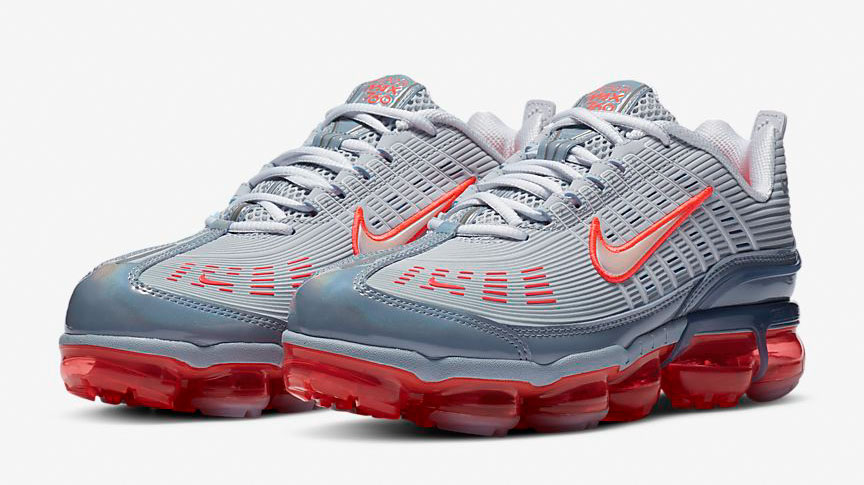
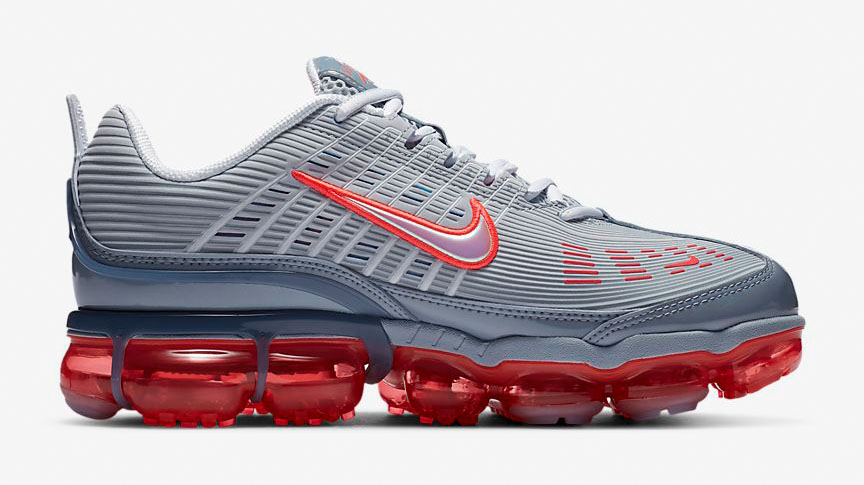
Add extra data

diff --git a/data/shoes.js b/data/shoes.js
@@ -3,10 +3,49 @@ const generateId = require("../util/generateId");
 const products = [
   {
     id: generateId(),
+    name: "Air Edge 270",
+    price: 89.99,
+    description:
+      "The Nike Air Edge 270 takes the look of retro basketball and puts it through a modern lens. Featuring Nike's biggest heel Air unit yet, it delivers total comfort and versatile style.",
+    images: [
+      {
+        id: "0",
+        source: "/shoes/air-edge-270-mens-shoe-fRCSW5__1.jpg",
+        color: "#4781C3",
+      },
+      {
+        id: "1",
+        source: "/shoes/air-edge-270-mens-shoe-fRCSW5__2.jpg",
+        color: "#4781C3",
+      },
+      {
+        id: "2",
+        source: "",
+        color: "#4781C3",
+      },
+      {
+        id: "3",
+        source: "",
+        color: "#4781C3",
+      },
+      {
+        id: "4",
+        source: "/shoes/air-edge-270-mens-shoe-fRCSW5__5.jpg",
+        color: "#4781C3",
+      },
+      {
+        id: "5",
+        source: "/shoes/air-edge-270-mens-shoe-fRCSW5__6.jpg",
+        color: "#4781C3",
+      },
+    ],
+  },
+  {
+    id: generateId(),
     name: "Nike Superrep Go",
     price: 249.99,
     description:
-      "Do ea est sint sint laboris eu officia veniam. Cupidatat amet fugiat incididunt occaecat sint eiusmod anim.",
+      "The Nike SuperRep Go combines comfortable foam cushioning, flexibility and support to get you moving in circuit-based fitness classes or while streaming workouts at home.",
     images: [
       {
         id: "0",
@@ -20,7 +59,7 @@ const products = [
       },
       {
         id: "2",
-        source: "/shoes/superrep-go-mens-training-shoe-19sK4X__4.jpg",
+        source: "/shoes/superrep-go-mens-training-shoe-19sK4X__3.jpg",
         color: "#96E217",
       },
       {
@@ -45,7 +84,7 @@ const products = [
     name: "Nike React Metcon",
     price: 249.99,
     description:
-      "Do ea est sint sint laboris eu officia veniam. Cupidatat amet fugiat incididunt occaecat sint eiusmod anim.",
+      "The Nike React Metcon takes the stability and traction from the training original and pairs it with Nike's most comfortable cushioning. Tackle high-impact and lifting workouts with a light, breathable upper and durable grip to keep you going.",
     images: [
       {
         id: "0",
@@ -84,7 +123,7 @@ const products = [
     name: "Nike Air Vapormax 360",
     price: 149.99,
     description:
-      "Commodo incididunt quis occaecat cupidatat Lorem non culpa voluptate eu commodo amet. Occaecat nulla et enim anim consequat nisi aliquip dolor laborum et dolor nostrud consectetur aute.",
+      "Inspired by heritage running shoes like the 2006 Air Max 360, the Nike Air Vapormax 360 reimagines full-length Air with its lighter, more flexible design. The full-length foam midsole adds to the comfort while bold colors create a fresh, modern look.",
     images: [
       {
         id: "0",
@@ -93,7 +132,7 @@ const products = [
       },
       {
         id: "1",
-        source: "/shoes/air-vapormax-360-mens-shoe-b09bdB__1.jpg",
+        source: "/shoes/air-vapormax-360-mens-shoe-b09bdB__2.jpg",
         color: "#4C6069",
       },
       {
@@ -103,12 +142,12 @@ const products = [
       },
       {
         id: "3",
-        source: "/shoes/air-vapormax-360-mens-shoe-b09bdB__3.jpg",
+        source: "/shoes/air-vapormax-360-mens-shoe-b09bdB__4.jpg",
         color: "#4C6069",
       },
       {
         id: "4",
-        source: "/shoes/air-vapormax-360-mens-shoe-b09bdB__6.jpg",
+        source: "/shoes/air-vapormax-360-mens-shoe-b09bdB__5.jpg",
         color: "#4C6069",
       },
       {
@@ -123,7 +162,7 @@ const products = [
     name: "Nike Air Vapormax 2020",
     price: 149.99,
     description:
-      "Commodo occaecat qui eiusmod aliquip est velit officia voluptate aute eiusmod tempor ad ex. Irure excepteur cupidatat ut eu adipisicing eu irure enim cillum consectetur.",
+      "Designed with sustainability in mind, the Nike Air VaporMax 2020 Flyknit is made from at least 50% recycled content by weight. That’s a lot of trash! As part of Nike’s journey towards lowering our impact, we’re discovering new ways to put our waste to good use. By utilizing leftover materials, recycled polyester, recycled foam, and a Nike Air sole made from at least 75% recycled TPU, the VaporMax 2020 Flyknit marks the next step towards our ultimate goal of zero carbon and zero waste.",
     images: [
       {
         id: "0",
@@ -132,7 +171,7 @@ const products = [
       },
       {
         id: "1",
-        source: "/shoes/air-vapormax-2020-fk-mens-shoe-mZ0Fz6__1.jpg",
+        source: "/shoes/air-vapormax-2020-fk-mens-shoe-mZ0Fz6__2.jpg",
         color: "#2E2F39",
       },
       {
@@ -147,66 +186,13 @@ const products = [
       },
       {
         id: "4",
-        source: "/shoes/air-vapormax-2020-fk-mens-shoe-mZ0Fz6__6.jpg",
+        source: "/shoes/air-vapormax-2020-fk-mens-shoe-mZ0Fz6__5.jpg",
         color: "#2E2F39",
       },
       {
         id: "5",
         source: "/shoes/air-vapormax-2020-fk-mens-shoe-mZ0Fz6__6.jpg",
         color: "#2E2F39",
-      },
-    ],
-  },
-  {
-    id: generateId(),
-    name: "Leifarne Armchair",
-    price: 299.99,
-    description:
-      "Laboris adipisicing sint reprehenderit cupidatat velit veniam aliquip do incididunt minim proident. Elit tempor eiusmod reprehenderit mollit nostrud duis qui irure officia consequat tempor eiusmod.",
-    images: [
-      {
-        id: "0",
-        source: "/shoes/leifarne-armchair__1.jpg",
-        color: "#CD9929",
-      },
-      {
-        id: "1",
-        source: "/shoes/leifarne-armchair__2.jpg",
-        color: "#DBDCD3",
-      },
-      {
-        id: "2",
-        source: "/shoes/leifarne-armchair__3.jpg",
-        color: "#B99C6F",
-      },
-    ],
-  },
-  {
-    id: generateId(),
-    name: "Volfgang Chair",
-    price: 89.99,
-    description:
-      "Consequat minim nostrud aliqua cupidatat ullamco sit eu nisi aliquip aliquip aute. Minim sunt occaecat enim labore veniam incididunt aliquip adipisicing in eiusmod amet adipisicing.",
-    images: [
-      {
-        id: "0",
-        source: "/shoes/volfgang-chair__1.jpg",
-        color: "#B6B4B3",
-      },
-      {
-        id: "1",
-        source: "/shoes/volfgang-chair__2.jpg",
-        color: "#646466",
-      },
-      {
-        id: "2",
-        source: "/shoes/volfgang-chair__3.jpg",
-        color: "#CEC7BE",
-      },
-      {
-        id: "3",
-        source: "/shoes/volfgang-chair__4.jpg",
-        color: "#433F3E",
       },
     ],
   },
@@ -220,32 +206,32 @@ const products = [
       {
         id: "0",
         source: "/shoes/air-vapormax-plus-womens-shoe-xbt7zf__1.jpg",
-        color: "#C96C85",
+        color: "#F2B8DF",
       },
       {
         id: "1",
         source: "/shoes/air-vapormax-plus-womens-shoe-xbt7zf__2.jpg",
-        color: "#C96C85",
+        color: "#F2B8DF",
       },
       {
         id: "2",
         source: "/shoes/air-vapormax-plus-womens-shoe-xbt7zf__3.jpg",
-        color: "#C96C85",
+        color: "#F2B8DF",
       },
       {
         id: "3",
-        source: "/shoes/air-vapormax-plus-womens-shoe-xbt7zf__1.jpg",
-        color: "#C96C85",
+        source: "/shoes/air-vapormax-plus-womens-shoe-xbt7zf__4.jpg",
+        color: "#F2B8DF",
       },
       {
         id: "4",
-        source: "/shoes/air-vapormax-plus-womens-shoe-xbt7zf__2.jpg",
-        color: "#C96C85",
+        source: "/shoes/air-vapormax-plus-womens-shoe-xbt7zf__5.jpg",
+        color: "#F2B8DF",
       },
       {
         id: "5",
-        source: "/shoes/air-vapormax-plus-womens-shoe-xbt7zf__3.jpg",
-        color: "#C96C85",
+        source: "/shoes/air-vapormax-plus-womens-shoe-xbt7zf__6.jpg",
+        color: "#F2B8DF",
       },
     ],
   },
@@ -254,10 +240,49 @@ const products = [
 const recommendedProducts = [
   {
     id: generateId(),
+    name: "Air Force 1 Shadow - Womens",
+    price: 199.99,
+    description:
+      "The Nike Air Force 1 Shadow pays homage to the women who are setting an example for the next generation by being forces of change in their community. This sneaker reflects this ethos in its design with double the swoosh, double the height, and double the force.",
+    images: [
+      {
+        id: "0",
+        source: "/shoes/air-force-1-shadow-womens-shoe-kTgn9J__1.jpg",
+        color: "#E0EDC1",
+      },
+      {
+        id: "1",
+        source: "/shoes/air-force-1-shadow-womens-shoe-kTgn9J__2.jpg",
+        color: "#E0EDC1",
+      },
+      {
+        id: "2",
+        source: "/shoes/air-force-1-shadow-womens-shoe-kTgn9J__3.jpg",
+        color: "#E0EDC1",
+      },
+      {
+        id: "3",
+        source: "/shoes/air-force-1-shadow-womens-shoe-kTgn9J__4.jpg",
+        color: "#E0EDC1",
+      },
+      {
+        id: "4",
+        source: "/shoes/air-force-1-shadow-womens-shoe-kTgn9J__5.jpg",
+        color: "#E0EDC1",
+      },
+      {
+        id: "5",
+        source: "/shoes/air-force-1-shadow-womens-shoe-kTgn9J__6.jpg",
+        color: "#E0EDC1",
+      },
+    ],
+  },
+  {
+    id: generateId(),
     name: "React Infinity Run Flyknit",
     price: 299.99,
     description:
-      "Elit tempor eiusmod reprehenderit mollit nostrud duis qui irure officia consequat tempor eiusmod.",
+      "The Nike React Infinity Run Flyknit is designed to help reduce injury and keep you on the run. More foam and improved upper details provide a secure and cushioned feel. Lace up and feel the potential as you hit the road.",
     images: [
       {
         id: "0",
@@ -341,7 +366,7 @@ const recommendedProducts = [
     name: "Nike Supperrep Go",
     price: 199.99,
     description:
-      "Elit tempor eiusmod reprehenderit mollit nostrud duis qui irure officia consequat tempor eiusmod.",
+      "The Nike SuperRep Go combines comfortable foam cushioning, flexibility and support to get you moving in circuit-based fitness classes or while streaming workouts at home.",
     images: [
       {
         id: "0",
@@ -355,7 +380,7 @@ const recommendedProducts = [
       },
       {
         id: "2",
-        source: "/shoes/superrep-go-mens-training-shoe-19sK4X__4.jpg",
+        source: "/shoes/superrep-go-mens-training-shoe-19sK4X__3.jpg",
         color: "#AEEA41",
       },
       {
@@ -380,7 +405,7 @@ const recommendedProducts = [
     name: "Jordan Zoom Trunner",
     price: 199.99,
     description:
-      "Elit tempor eiusmod reprehenderit mollit nostrud duis qui irure officia consequat tempor eiusmod.",
+      "The Nike React Metcon takes the stability and traction from the training original and pairs it with Nike's most comfortable cushioning. Tackle high-impact and lifting workouts with a light, breathable upper and durable grip to keep you going.",
     images: [
       {
         id: "0",
@@ -423,3 +448,5 @@ const recommendedProducts = [
 ];
 
 module.exports = { products, recommendedProducts };
+
+// The Nike Air VaporMax Plus looks to the past and propels you into the future. Nodding to the '98 Air Max Plus with its floating cage, padded upper and heel logo, it adds revolutionary VaporMax Air technology to ramp up the comfort.
